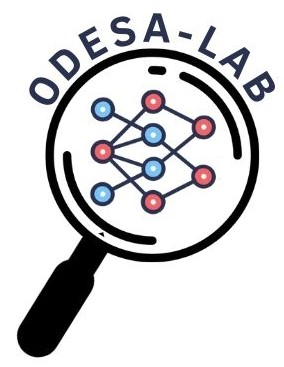
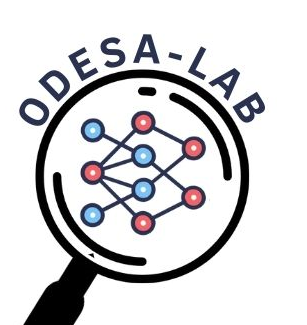
Profile picture and publications updated

diff --git a/_pages/publications.md b/_pages/publications.md
@@ -12,35 +12,35 @@ author_profile: true
 {% include base_path %}
 
 ## Journal Papers
-[Evolutionary Architecture Optimization for Retinal Vessel Segmentation](https://ieeexplore.ieee.org/document/10250938), Zeki Kuş and Berna Kiraz, "Evolutionary Architecture Optimization for Retinal Vessel Segmentation," in IEEE Journal of Biomedical and Health Informatics, 2023. doi: 10.1109/JBHI.2023.3314981.[(Code)](https://github.com/ODESALAB/Evolutionary-Architecture-Optimization-for-Retinal-Vessel-Segmentation)
+[Evolutionary Architecture Optimization for Retinal Vessel Segmentation](https://ieeexplore.ieee.org/document/10250938){:target="_blank"}, Zeki Kuş and Berna Kiraz, "Evolutionary Architecture Optimization for Retinal Vessel Segmentation," in IEEE Journal of Biomedical and Health Informatics, 2023. doi: 10.1109/JBHI.2023.3314981.[(Code)](https://github.com/ODESALAB/Evolutionary-Architecture-Optimization-for-Retinal-Vessel-Segmentation){:target="_blank"}
 
-[Differential evolution-based neural architecture search for brain vessel segmentation](https://doi.org/10.1016/j.jestch.2023.101502), Zeki Kuş, Berna Kiraz, Tuğçe Koçak Göksu, Musa Aydın, E. Özkan, A. Vural, A. Kiraz, B. Can. "Differential evolution-based neural architecture search for brain vessel segmentation", In Engineering Science and Technology, an International Journal, Volume 46, 2023. doi: 10.1016/j.jestch.2023.101502 [(Code)](https://github.com/ODESALAB/Differential-Evolution-based-Neural-Architecture-Search-for-BrainVessel-Segmentation) 
+[Differential evolution-based neural architecture search for brain vessel segmentation](https://doi.org/10.1016/j.jestch.2023.101502){:target="_blank"}, Zeki Kuş, Berna Kiraz, Tuğçe Koçak Göksu, Musa Aydın, E. Özkan, A. Vural, A. Kiraz, B. Can. "Differential evolution-based neural architecture search for brain vessel segmentation", In Engineering Science and Technology, an International Journal, Volume 46, 2023. doi: 10.1016/j.jestch.2023.101502 [(Code)](https://github.com/ODESALAB/Differential-Evolution-based-Neural-Architecture-Search-for-BrainVessel-Segmentation){:target="_blank"} 
 
-[Low-cost VIS/NIR range hand-held and portable photospectrometer and evaluation of machine learning algorithms for classification performance](https://doi.org/10.1016/j.jestch.2022.101302), S. Heydarov, Musa Aydin, C. Faydaci, S. Tuna, S. Ozturk, "Low-cost VIS/NIR range hand-held and portable photospectrometer and evaluation of machine learning algorithms for classification performance", Engineering Science and Technology, an International Journal, Volume 37, 2023, doi: 10.1016/j.jestch.2022.101302. 
+[Low-cost VIS/NIR range hand-held and portable photospectrometer and evaluation of machine learning algorithms for classification performance](https://doi.org/10.1016/j.jestch.2022.101302){:target="_blank"}, S. Heydarov, Musa Aydin, C. Faydaci, S. Tuna, S. Ozturk, "Low-cost VIS/NIR range hand-held and portable photospectrometer and evaluation of machine learning algorithms for classification performance", Engineering Science and Technology, an International Journal, Volume 37, 2023, doi: 10.1016/j.jestch.2022.101302. 
 
-[An LED-Based structured illumination microscope using a digital micromirror device and GPU accelerated image reconstruction](https://journals.plos.org/plosone/article?id=10.1371/journal.pone.0273990), Musa Aydin, Y. Uysallı, E. Özgönül, B. Morova, F. Tiryaki, E.N. Firat-Karalar, B. Doğan, A. Kiraz, "An LED-Based structured illumination microscope using a digital micromirror device and GPU accelerated image reconstruction", PLoS One, 2022, 17(9):e0273990, doi: 10.1371/journal.pone.0273990. PMID: 36084054.
+[An LED-Based structured illumination microscope using a digital micromirror device and GPU accelerated image reconstruction](https://journals.plos.org/plosone/article?id=10.1371/journal.pone.0273990){:target="_blank"}, Musa Aydin, Y. Uysallı, E. Özgönül, B. Morova, F. Tiryaki, E.N. Firat-Karalar, B. Doğan, A. Kiraz, "An LED-Based structured illumination microscope using a digital micromirror device and GPU accelerated image reconstruction", PLoS One, 2022, 17(9):e0273990, doi: 10.1371/journal.pone.0273990. PMID: 36084054.
 
-[DeepCAN: A Modular Deep Learning System for Automated Cell Counting and Viability Analysis](https://ieeexplore.ieee.org/abstract/document/9875013), F. Eren, M. Aslan, D. Kanarya, Y. Uysalli, Musa Aydin, Berna Kiraz, O. Aydin, A. Kiraz. "DeepCAN: A Modular Deep Learning System for Automated Cell Counting and Viability Analysis", IEEE Journal of Biomedical and Health Informatics, vol. 26, no. 11, pp. 5575-5583, Nov. 2022, doi: 10.1109/JBHI.2022.3203893.
+[DeepCAN: A Modular Deep Learning System for Automated Cell Counting and Viability Analysis](https://ieeexplore.ieee.org/abstract/document/9875013){:target="_blank"}, F. Eren, M. Aslan, D. Kanarya, Y. Uysalli, Musa Aydin, Berna Kiraz, O. Aydin, A. Kiraz. "DeepCAN: A Modular Deep Learning System for Automated Cell Counting and Viability Analysis", IEEE Journal of Biomedical and Health Informatics, vol. 26, no. 11, pp. 5575-5583, Nov. 2022, doi: 10.1109/JBHI.2022.3203893.
 
-[Experimental evaluation of meta-heuristics for multi-objective capacitated multiple allocation hub location problem](https://www.sciencedirect.com/science/article/pii/S2215098621001440), İ. Demir, Berna Kiraz, F. Corut Ergin, "Experimental evaluation of meta-heuristics for multi-objective capacitated multiple allocation hub location problem", Engineering Science and Technology, an International Journal, Volume 29, 2022.
+[Experimental evaluation of meta-heuristics for multi-objective capacitated multiple allocation hub location problem](https://www.sciencedirect.com/science/article/pii/S2215098621001440){:target="_blank"}, İ. Demir, Berna Kiraz, F. Corut Ergin, "Experimental evaluation of meta-heuristics for multi-objective capacitated multiple allocation hub location problem", Engineering Science and Technology, an International Journal, Volume 29, 2022.
 
-[Recommending healthy meal plans by optimising nature-inspired many-objective diet problem](https://journals.sagepub.com/doi/full/10.1177/1460458220976719), C. Turkmenoglu, A.Ş. Etaner-Uyar, Berna Kiraz, "Recommending healthy meal plans by optimising nature-inspired many-objective diet problem", Health Informatics Journal, vol. 27, no. 1, 2021, doi:10.1177/1460458220976719. 
+[Recommending healthy meal plans by optimising nature-inspired many-objective diet problem](https://journals.sagepub.com/doi/full/10.1177/1460458220976719){:target="_blank"}, C. Turkmenoglu, A.Ş. Etaner-Uyar, Berna Kiraz, "Recommending healthy meal plans by optimising nature-inspired many-objective diet problem", Health Informatics Journal, vol. 27, no. 1, 2021, doi:10.1177/1460458220976719. 
 
-[A New Model for the Multi-Objective Multiple Allocation Hub Network Design and Routing Problem](https://ieeexplore.ieee.org/document/8756240) İ. Demır, F. Corut Ergin, Berna Kıraz, "A New Model for the Multi-Objective Multiple Allocation Hub Network Design and Routing Problem", IEEE Access, vol. 7, pp. 90678-90689, 2019, doi: 10.1109/ACCESS.2019.2927418.
+[A New Model for the Multi-Objective Multiple Allocation Hub Network Design and Routing Problem](https://ieeexplore.ieee.org/document/8756240){:target="_blank"} İ. Demır, F. Corut Ergin, Berna Kıraz, "A New Model for the Multi-Objective Multiple Allocation Hub Network Design and Routing Problem", IEEE Access, vol. 7, pp. 90678-90689, 2019, doi: 10.1109/ACCESS.2019.2927418.
 
 ## Conference Papers
 
-[Machine Learning Approaches for Cell Viability](https://ieeexplore.ieee.org/abstract/document/10223821) Zeliha Kaya, Zeki Kuş, Berna Kiraz and Gönül Uludağ, "Machine Learning Approaches for Cell Viability," 2023 31st Signal Processing and Communications Applications Conference (SIU), Istanbul, Turkiye, 2023, pp. 1-4, doi: 10.1109/SIU59756.2023.10223821.
+[Machine Learning Approaches for Cell Viability](https://ieeexplore.ieee.org/abstract/document/10223821){:target="_blank"} Zeliha Kaya, Zeki Kuş, Berna Kiraz and Gönül Uludağ, "Machine Learning Approaches for Cell Viability," 2023 31st Signal Processing and Communications Applications Conference (SIU), Istanbul, Turkiye, 2023, pp. 1-4, doi: 10.1109/SIU59756.2023.10223821.
 
-[BaDENAS: Bayesian Based Neural Architecture Search for Retinal Vessel Segmentation](https://ieeexplore.ieee.org/abstract/document/10223862), Zeki Kuş and Berna Kiraz, "BaDENAS: Bayesian Based Neural Architecture Search for Retinal Vessel Segmentation," 2023 31st Signal Processing and Communications Applications Conference (SIU), Istanbul, Turkiye, 2023, pp. 1-4, doi: 10.1109/SIU59756.2023.10223862. [(Code)](https://github.com/ODESALAB/BaDENAS)
+[BaDENAS: Bayesian Based Neural Architecture Search for Retinal Vessel Segmentation](https://ieeexplore.ieee.org/abstract/document/10223862){:target="_blank"}, Zeki Kuş and Berna Kiraz, "BaDENAS: Bayesian Based Neural Architecture Search for Retinal Vessel Segmentation," 2023 31st Signal Processing and Communications Applications Conference (SIU), Istanbul, Turkiye, 2023, pp. 1-4, doi: 10.1109/SIU59756.2023.10223862. [(Code)](https://github.com/ODESALAB/BaDENAS){:target="_blank"}
 
-[Neural Architecture Search Using Metaheuristics for Automated Cell Segmentation](https://link.springer.com/chapter/10.1007/978-3-031-26504-4_12), Kuş, Z., Aydın, M., Kiraz, B., Can, B. (2023). Neural Architecture Search Using Metaheuristics for Automated Cell Segmentation. In: Di Gaspero, L., Festa, P., Nakib, A., Pavone, M. (eds) Metaheuristics. MIC 2022. Lecture Notes in Computer Science, vol 13838. Springer, Cham. https://doi.org/10.1007/978-3-031-26504-4_12
+[Neural Architecture Search Using Metaheuristics for Automated Cell Segmentation](https://link.springer.com/chapter/10.1007/978-3-031-26504-4_12){:target="_blank"}, Kuş, Z., Aydın, M., Kiraz, B., Can, B. (2023). Neural Architecture Search Using Metaheuristics for Automated Cell Segmentation. In: Di Gaspero, L., Festa, P., Nakib, A., Pavone, M. (eds) Metaheuristics. MIC 2022. Lecture Notes in Computer Science, vol 13838. Springer, Cham. https://doi.org/10.1007/978-3-031-26504-4_12{:target="_blank"}
 
-[Removal of Gaussian Distributed Noise in Images with Deep Neural Network Models](https://ieeexplore.ieee.org/document/9864913), Zeki Kuş and Musa Aydin, "Removal of Gaussian Distributed Noise in Images with Deep Neural Network Models," 2022 30th Signal Processing and Communications Applications Conference (SIU), 2022, pp. 1-4, doi: 10.1109/SIU55565.2022.9864913 [(Code)](https://github.com/ODESALAB/Removal-of-Gaussian-Distributed-Noise-in-Images-with-Deep-Neural-Network-Models)
+[Removal of Gaussian Distributed Noise in Images with Deep Neural Network Models](https://ieeexplore.ieee.org/document/9864913){:target="_blank"}, Zeki Kuş and Musa Aydin, "Removal of Gaussian Distributed Noise in Images with Deep Neural Network Models," 2022 30th Signal Processing and Communications Applications Conference (SIU), 2022, pp. 1-4, doi: 10.1109/SIU55565.2022.9864913 [(Code)](https://github.com/ODESALAB/Removal-of-Gaussian-Distributed-Noise-in-Images-with-Deep-Neural-Network-Models){:target="_blank"}
 
-[A Deep Learning Model for Automated Segmentation of Fluorescence Cell images](https://iopscience.iop.org/article/10.1088/1742-6596/2191/1/012003/pdf), Musa Aydın, Berna Kiraz, F. Eren, Y. Uysallı, B. Morova, S. C. Özcan, C. Açılan, A. Kiraz. (2022, February). "A Deep Learning Model for Automated Segmentation of Fluorescence Cell images", In Journal of Physics: Conference Series (Vol. 2191, No. 1, p. 012003). IOP Publishing.
+[A Deep Learning Model for Automated Segmentation of Fluorescence Cell images](https://iopscience.iop.org/article/10.1088/1742-6596/2191/1/012003/pdf){:target="_blank"}, Musa Aydın, Berna Kiraz, F. Eren, Y. Uysallı, B. Morova, S. C. Özcan, C. Açılan, A. Kiraz. (2022, February). "A Deep Learning Model for Automated Segmentation of Fluorescence Cell images", In Journal of Physics: Conference Series (Vol. 2191, No. 1, p. 012003). IOP Publishing.
 
-[Beyin Damar Bölütlemesinde Derin Sinir Ağlarının Deneysel Karşılaştırılması](https://ieeexplore.ieee.org/document/9559015), Tuğçe Koçak, Musa Aydın, Berna Kiraz, "Beyin Damar Bölütlemesinde Derin Sinir Ağlarının Deneysel Karşılaştırılması", 2021 6th International Conference on Computer Science and Engineering UBMK 2021, 2021.
+[Beyin Damar Bölütlemesinde Derin Sinir Ağlarının Deneysel Karşılaştırılması](https://ieeexplore.ieee.org/document/9559015){:target="_blank"}, Tuğçe Koçak, Musa Aydın, Berna Kiraz, "Beyin Damar Bölütlemesinde Derin Sinir Ağlarının Deneysel Karşılaştırılması", 2021 6th International Conference on Computer Science and Engineering UBMK 2021, 2021.
 
 ## Thesis
 Kuş, Zeki. Hyper-parameter optimization of deep neural networks for cell-vessel segmentation. Doctoral thesis (YOK Thesis ID: 	824767), Fatih Sultan Mehmet Vakıf University, 2023.
